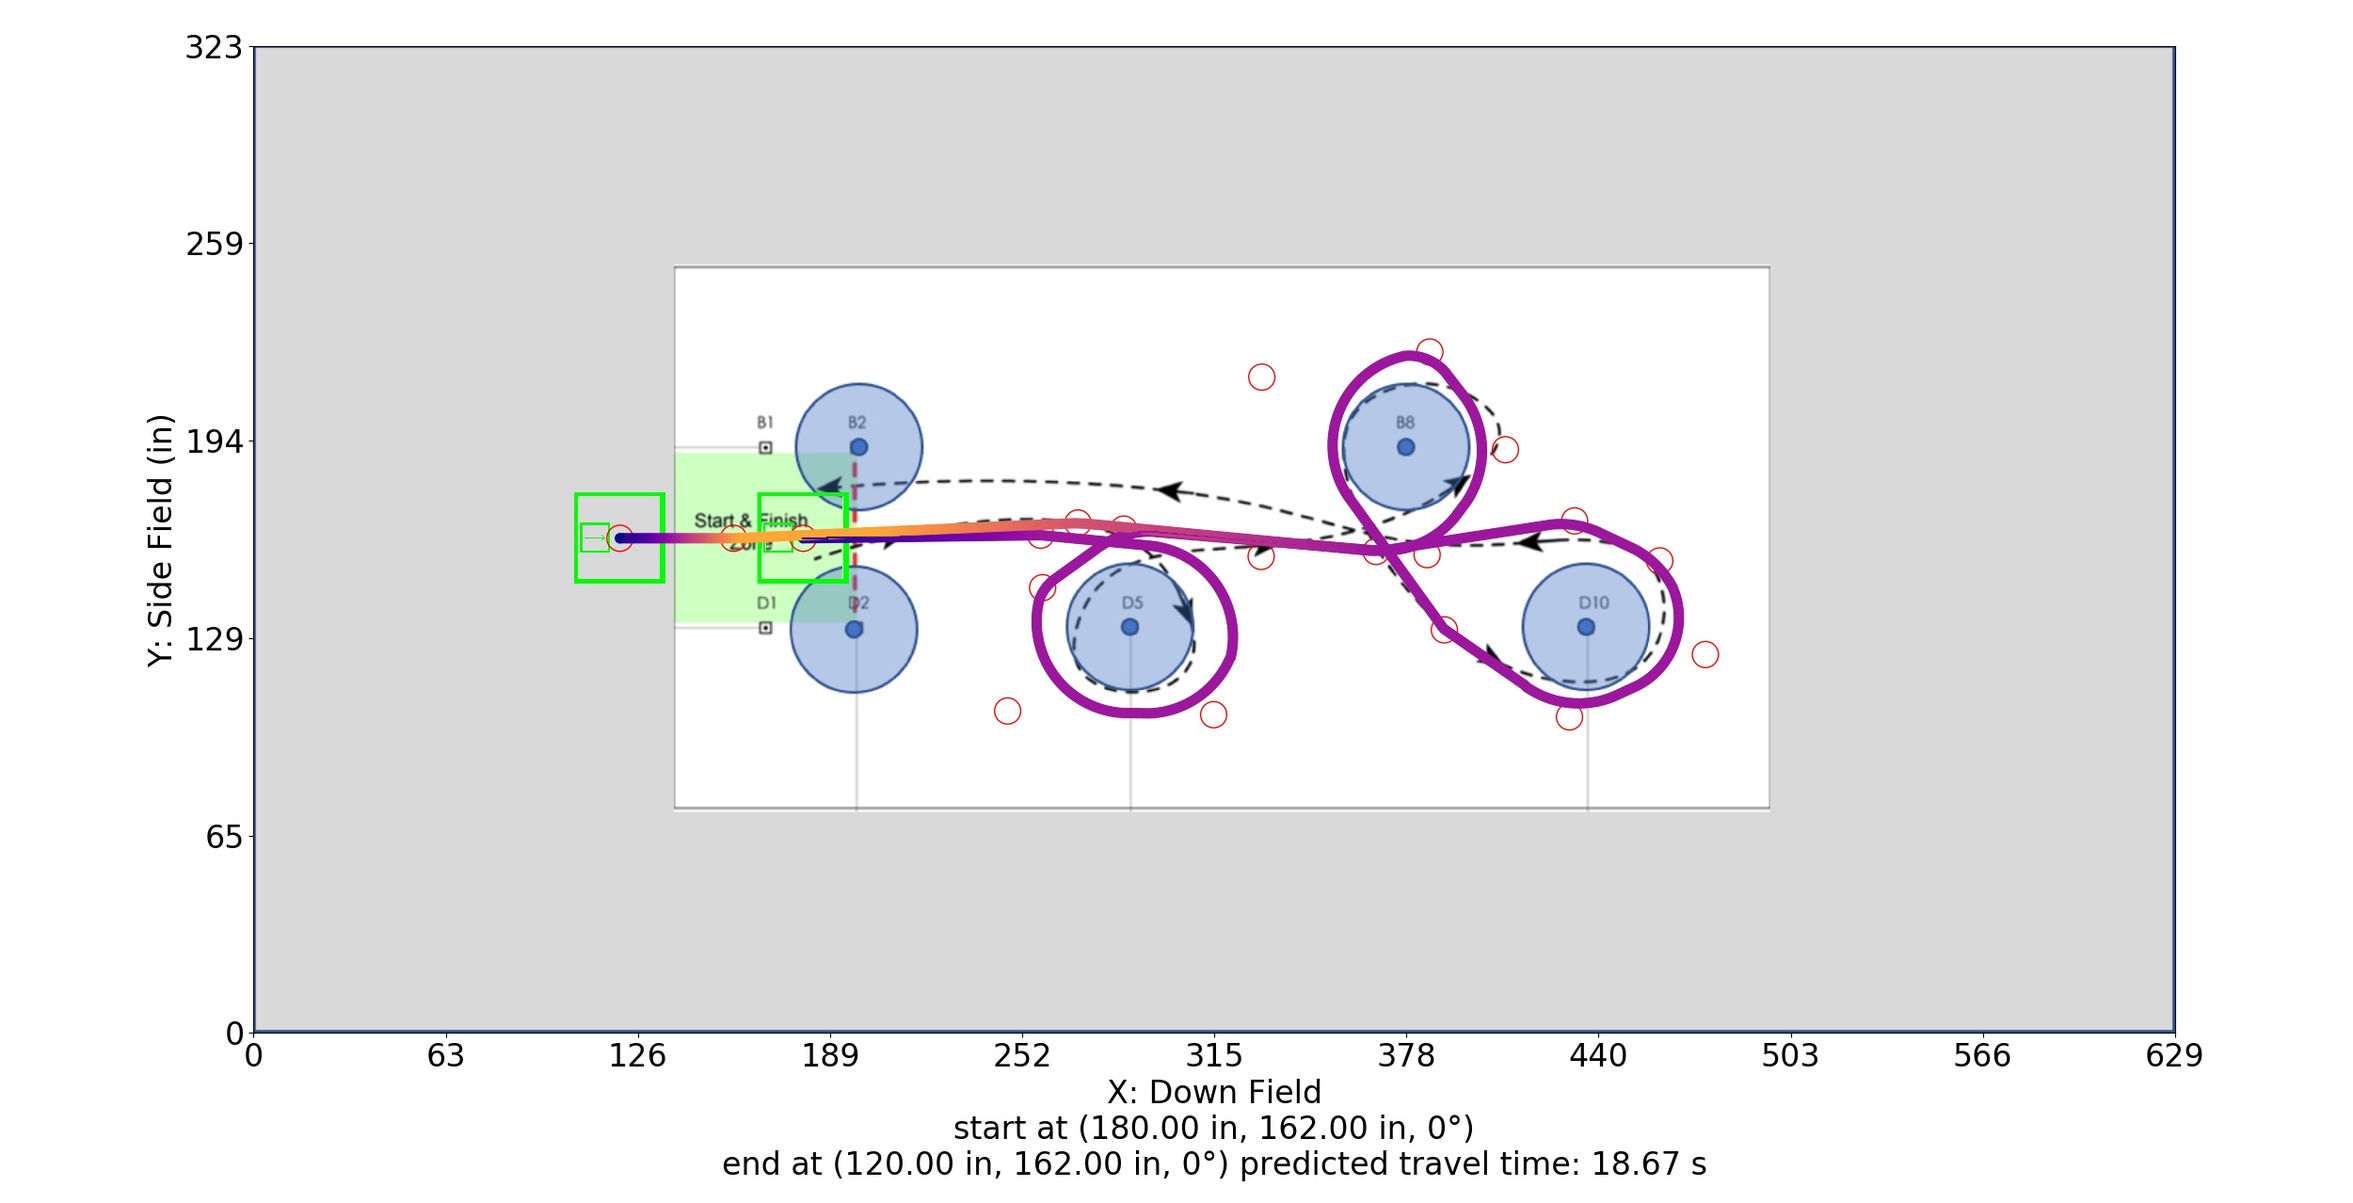
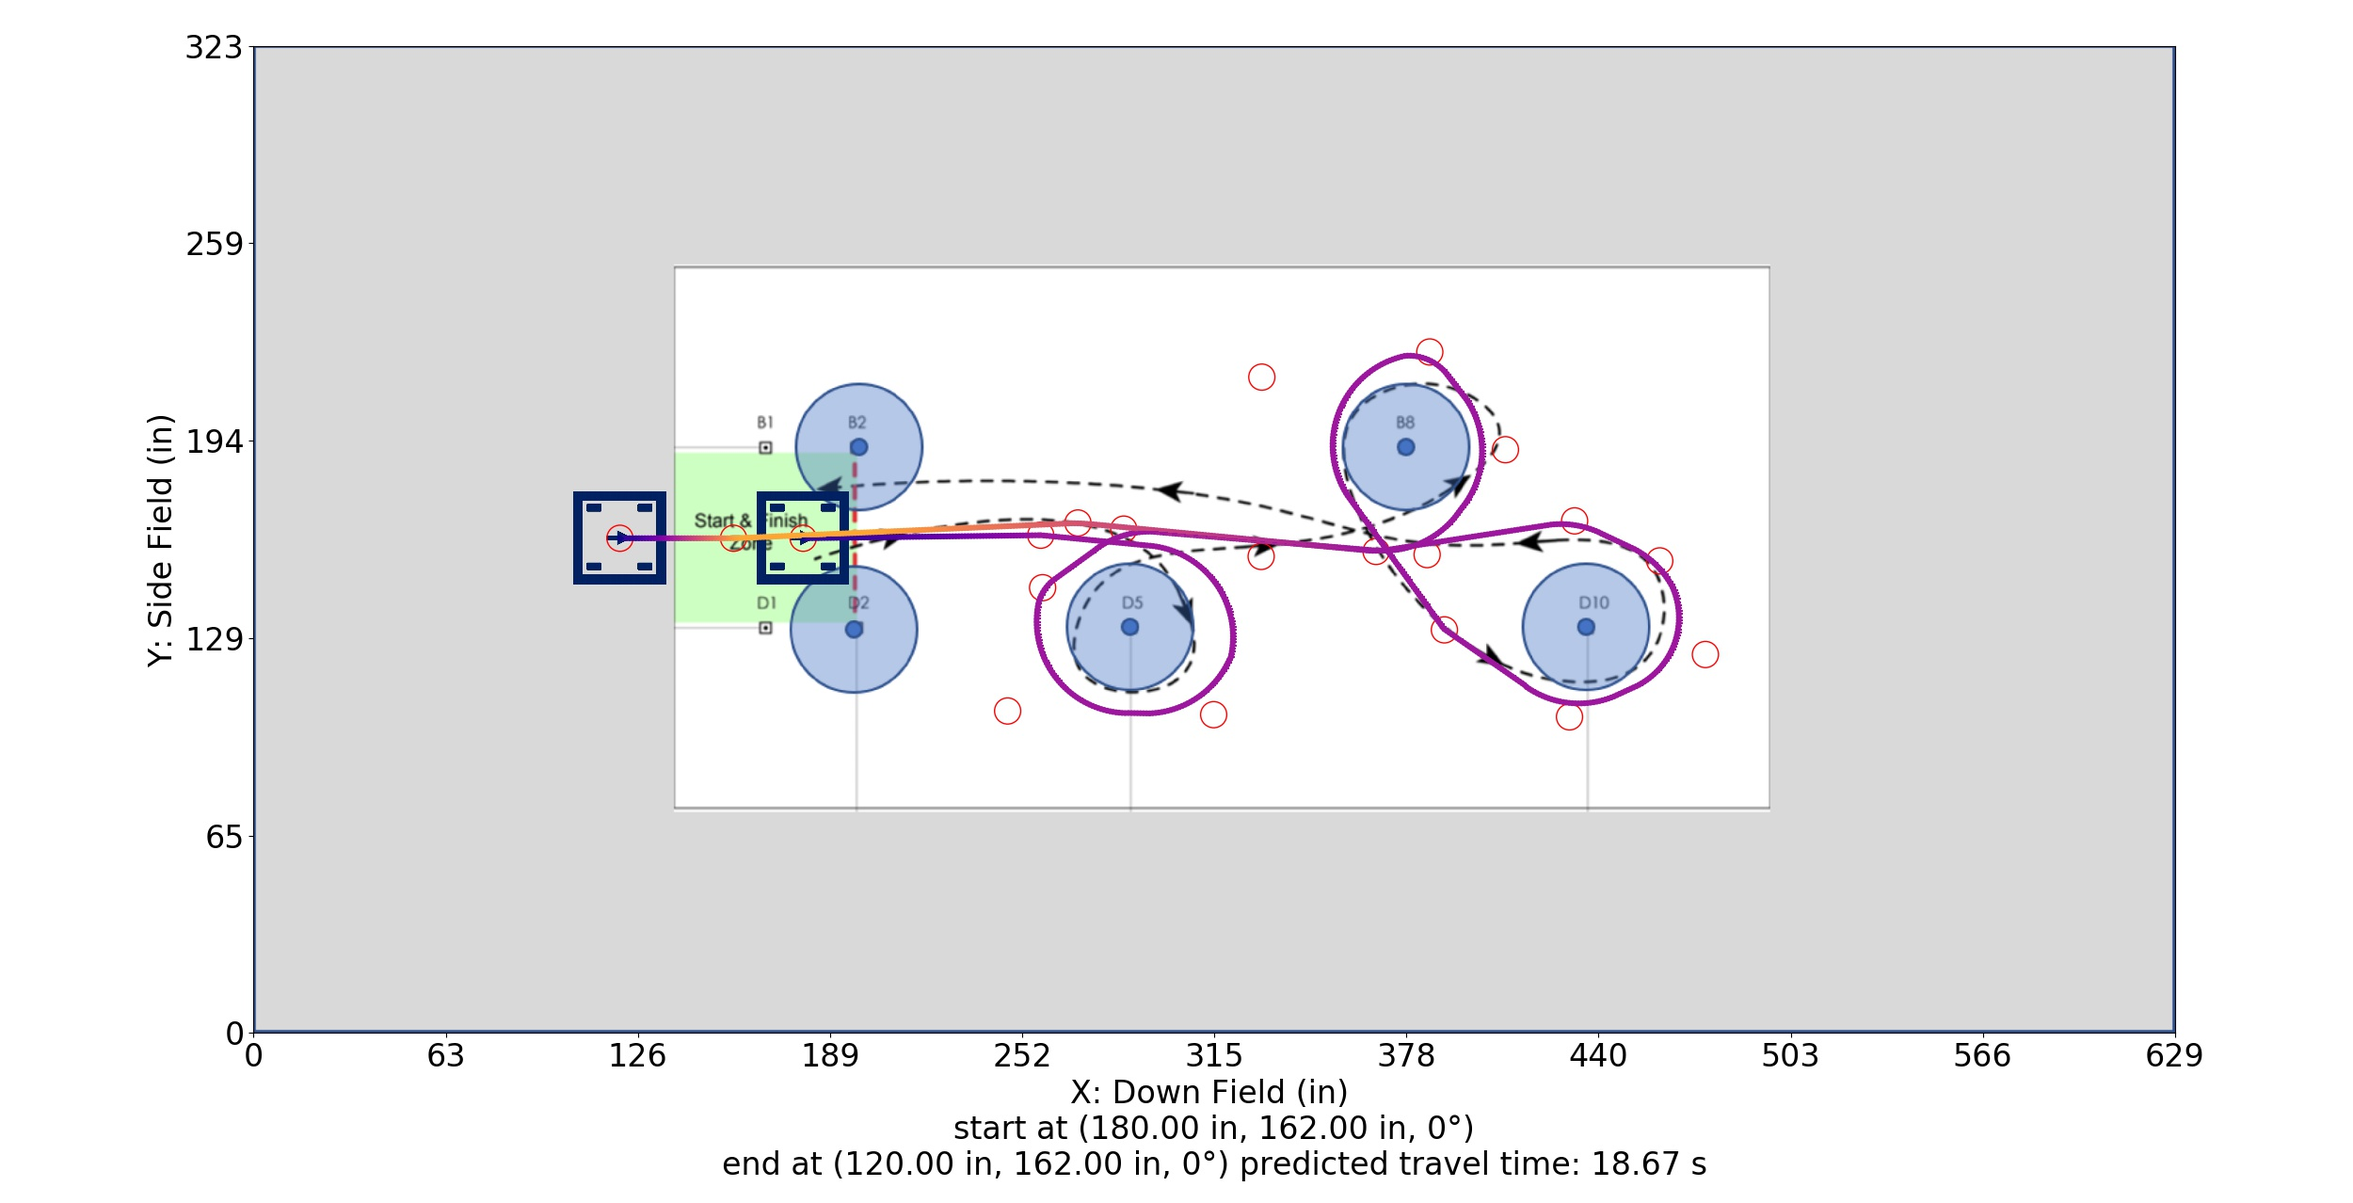
> Overhauls the path saving code. > Adds a seperate button for editing a waypoint. > Fixes a bug in the x-axis label display. > Radio group is fixed custom toolbar buttons.

diff --git a/code/PathPlanning.py b/code/PathPlanning.py
@@ -1,13 +1,13 @@
-# Date: 2021-02-26
+# Date: 2021-02-27
 # Description: path planning algorithms and user interface
 #-----------------------------------------------------------------------------
 
 # Load external modules
 import cv2 # OpenCV
 import matplotlib # all of Matplotlib
-import matplotlib.pyplot as plt # Matplotlib plotting functionality
+from matplotlib import pyplot as plt # Matplotlib plotting functionality
 matplotlib.rcParams['toolbar'] = 'toolmanager' # toolbar functionality
-from matplotlib.backend_tools import ToolToggleBase # toolbar functionality
+from matplotlib.backend_tools import ToolBase,ToolToggleBase # toolbar functionality
 import numpy as np # Numpy toolbox
 import pandas # data handling toolbox
 import sys # access to Windows OS
@@ -356,19 +356,20 @@ def pathSolution(path):
 
 #-----------------------------------------------------------------------------
 
-def popupPtData(path,x_prior,y_prior):
+def popupPtData(path,x_prior,y_prior,flag_newPt):
     """
     Creates a pop-up window that allows a user to create or edit a waypoint
     Args:
         path: robot path 
         x_prior: (pixels) the x coordinate of the user's mouse click
         y_prior: (pixels) the y coordinate of the user's mouse click
+        flag_newPt: True if this is a new point
     Returns:
         path: the updated robot path
     """
     
     # Configure waypoint selection
-    [x_init,y_init,v_init,o_init,R_init,T_init,way_index] = path.configureWayPoint(x_prior,y_prior)
+    [x_init,y_init,v_init,o_init,R_init,T_init,way_index] = path.configureWayPoint(x_prior,y_prior,flag_newPt)
     if(way_index!=-1): way_order = way_index
     else: way_order = path.numWayPoints()
     
@@ -590,15 +591,15 @@ def definePath(path_loaded,file_I,file_robot,buttonPlan):
     I_robot = loadRobot(file_robot,path.scale_pi)
     
     # Display the field image
-    global h_im
-    [h_fig,h_im,ax,_] = gensup.smartRealImageDisplay(I,[path.field_x_real,path.field_y_real],'Field Map',
+    global h_im,h_fig
+    [h_fig,h_im,ax,_] = gensup.smartRealImageDisplay(I,[path.field_x_real,path.field_y_real],path.loaded_filename,
                                                       flag_grid=True,
                                                       origin='bottomleft',x_real='X: Down Field',y_real='Y: Side Field',
                                                       units='in')
     
     # Define global variables
     global flag_toolwaypoint
-    flag_toolwaypoint = True
+    flag_toolwaypoint = 1
     global flag_risingEdge
     flag_risingEdge = False
     global flag_adding 
@@ -612,12 +613,55 @@ def definePath(path_loaded,file_I,file_robot,buttonPlan):
     
     # Watch for window close event
     def actionWindowClose(evt):
+        
+        # Save the path
+        savePath()
+        
+        # Reset the GUI
+        buttonPlan.configure(bg=guiColor_hotgreen,state=tk.NORMAL)
+    
+    # Set up mouse button click callbacks
+    def mouseClick(event):
+        global flag_risingEdge,flag_adding,h_fig
+        sys.stdout.flush()
+        button = 'LEFT'
+        if(flag_toolwaypoint!=0):
+            if(str(event.button).find(button)!=-1):
+                if(flag_risingEdge==False):
+                    flag_risingEdge = True
+                    if(not flag_adding):
+                    
+                        # Block additional popups
+                        flag_adding = True
+                        
+                        # Retrieve information about the selected point
+                        [x_prior,y_prior] = event.xdata, event.ydata 
+                        
+                        # Display popup window
+                        try:
+                            popupPtData(path,x_prior,y_prior,flag_toolwaypoint==1)
+                            generatePath()
+                            h_fig.canvas.set_window_title(path.loaded_filename+'*')
+                            flag_adding = False
+                        except: flag_adding = False # ignore
+                
+    # Set up mouse button unclick callbacks
+    def mouseUnClick(event):
+        global flag_risingEdge
+        sys.stdout.flush()
+        button = 'LEFT'
+        if(flag_toolwaypoint!=0):
+            if(str(event.button).find(button)!=-1):
+                if(flag_risingEdge==True):
+                    flag_risingEdge = False
+                    
+    def savePath():
         global path
         
         if(path.numWayPoints()>1):
         
             # Ask the user if they would like to save the path
-            filename = gensup.popupTextEntry('name the path or leave blank to not save',path.loaded_filename)
+            filename = gensup.popupTextEntry('save path as',path.loaded_filename)
             
             if(filename!=''):
                 
@@ -640,43 +684,10 @@ def definePath(path_loaded,file_I,file_robot,buttonPlan):
                 
                 # Save an image of the path planning figure
                 h_fig.savefig('../robot paths/%s.jpg' %(filename))
-        
-        # Reset the GUI
-        buttonPlan.configure(bg=guiColor_hotgreen,state=tk.NORMAL)
-    
-    # Set up mouse button click callbacks
-    def mouseClick(event):
-        global flag_risingEdge,flag_adding
-        sys.stdout.flush()
-        button = 'LEFT'
-        if(flag_toolwaypoint):
-            if(str(event.button).find(button)!=-1):
-                if(flag_risingEdge==False):
-                    flag_risingEdge = True
-                    if(not flag_adding):
-                    
-                        # Block additional popups
-                        flag_adding = True
-                        
-                        # Retrieve information about the selected point
-                        [x_prior,y_prior] = event.xdata, event.ydata 
-                        
-                        # Display popup window
-                        try:
-                            popupPtData(path,x_prior,y_prior)
-                            generatePath()
-                            flag_adding = False
-                        except: flag_adding = False # ignore
                 
-    # Set up mouse button unclick callbacks
-    def mouseUnClick(event):
-        global flag_risingEdge
-        sys.stdout.flush()
-        button = 'LEFT'
-        if(flag_toolwaypoint):
-            if(str(event.button).find(button)!=-1):
-                if(flag_risingEdge==True):
-                    flag_risingEdge = False
+                # Update the loaded path name
+                path.loaded_filename = filename
+                h_fig.canvas.set_window_title(path.loaded_filename)
                 
     def generatePath():
         global path,h_im,h_ways,h_smooths,hs_ori
@@ -727,7 +738,7 @@ def definePath(path_loaded,file_I,file_robot,buttonPlan):
                 # Display the path metrics
                 details_start = 'start at (%0.2f in, %0.2f in, %0.0f°)' %(path.smooths_x[0],path.smooths_y[0],path.smooths_o[0])
                 details_end = 'end at (%0.2f in, %0.2f in, %0.0f°) predicted travel time: %0.2f s' %(path.smooths_x[-1],path.smooths_y[-1],path.smooths_o[-1],path.total_t)
-                plt.xlabel('X: Down Field\n%s\n%s' %(details_start,details_end))
+                plt.xlabel('X: Down Field (in) \n%s\n%s' %(details_start,details_end))
                 
                 # Display the smooth path
                 ptColors = []
@@ -738,7 +749,7 @@ def definePath(path_loaded,file_I,file_robot,buttonPlan):
                     ptColors.append(np.array([ptColor[0],ptColor[1],ptColor[2]]))
                 h_smooths = ax.scatter(path.scale_pi*np.array(path.smooths_x),
                                        (path.field_y_pixels)*np.ones((len(path.smooths_y)),float) - path.scale_pi*np.array(path.smooths_y),
-                                       color=np.array(ptColors),marker='.',s=200)
+                                       color=np.array(ptColors),marker='.',s=25)
                 
                 # Display the orientation overlays
                 for i in range(0,path.numSmoothPoints(),1):
@@ -749,18 +760,37 @@ def definePath(path_loaded,file_I,file_robot,buttonPlan):
                     yb = ya - (path.step_size*path.scale_pi)*np.sin(oa)
                     hs_ori.append(plt.plot(np.array([xa,xb]),np.array([ya,yb]),color=np.array(ptColors[i])))
     
-    class ToolWaypoint(ToolToggleBase):
+    class ToolSavePath(ToolBase):
+        description = 'Saves the path'
+        default_toggled = False
+        image = dirPvars+'save.png'
+        def trigger(self,*args):
+            savePath()
+    
+    class ToolAddWaypoint(ToolToggleBase):
         description = 'Adds a waypoint'
-        radio_group = 'tool'
+        radio_group = 'default'
         default_toggled = True
-        image = dirPvars+'waypoint.png'
+        image = dirPvars+'addwaypoint.png'
         def enable(self,*args):
             global flag_toolwaypoint
-            flag_toolwaypoint = True # waypoint tool is selected
+            flag_toolwaypoint = 1 # add waypoint tool is selected
         def disable(self,*args):
             global flag_toolwaypoint
-            flag_toolwaypoint = False # waypoint tool is deselected
-    
+            flag_toolwaypoint = 0 # add waypoint tool is deselected
+            
+    class ToolEditWaypoint(ToolToggleBase):
+        description = 'Edits a waypoint'
+        radio_group = 'default'
+        default_toggled = False
+        image = dirPvars+'editwaypoint.png'
+        def enable(self,*args):
+            global flag_toolwaypoint
+            flag_toolwaypoint = 2 # edit waypoint tool is selected
+        def disable(self,*args):
+            global flag_toolwaypoint
+            flag_toolwaypoint = 0 # edit waypoint tool is deselected
+            
     # Configure the tool manager
     tm = h_fig.canvas.manager.toolmanager
     h_fig.canvas.manager.toolmanager.remove_tool('help')
@@ -768,8 +798,12 @@ def definePath(path_loaded,file_I,file_robot,buttonPlan):
     h_fig.canvas.manager.toolmanager.remove_tool('save')
     
     # Add the new tools to the toolbar
-    tm.add_tool('Add Waypoint',ToolWaypoint)
+    tm.add_tool('Save Path',ToolSavePath)
+    h_fig.canvas.manager.toolbar.add_tool(tm.get_tool('Save Path'),'custom')
+    tm.add_tool('Add Waypoint',ToolAddWaypoint)
     h_fig.canvas.manager.toolbar.add_tool(tm.get_tool('Add Waypoint'),'custom')
+    tm.add_tool('Edit Waypoint',ToolEditWaypoint)
+    h_fig.canvas.manager.toolbar.add_tool(tm.get_tool('Edit Waypoint'),'custom')
     
     # Connect the mouse button callbacks
     plt.connect('button_press_event',mouseClick)

diff --git a/code/Main.py b/code/Main.py
@@ -171,7 +171,7 @@ class Path():
         self.field_x_pixels = 1.0 # (pix) length of the field
         self.field_y_pixels = 1.0 # (pix) width of the field
         self.scale_pi = 1.0 # (pix/in)
-        self.loaded_filename = '' # the name of the loaded path
+        self.loaded_filename = 'unamed 1' # the name of the loaded path
         
         # Way points
         self.ways_x = [] # (in) list of way point x positions
@@ -198,21 +198,11 @@ class Path():
         self.field_y_pixels = I.shape[0]
         self.scale_pi = self.field_x_pixels/self.field_x_real
         
-    def configureWayPoint(self,x_prior,y_prior):
+    def configureWayPoint(self,x_prior,y_prior,flag_newPt):
         
         # Convert the candidate points into inches for search
         x_prior = x_prior/self.scale_pi # (in)
         y_prior = (self.field_y_pixels-y_prior)/self.scale_pi # (in)
-        
-        # Check to see if this is a new or a pre-exisiting point
-        thresh_samePt = 5 # [in] if the selected point is closer than this, you will edit a previous point
-        flag_newPt = True
-        i = -1 # needed for first call
-        for i in range(0,len(self.ways_x),1):
-            d = np.sqrt(((self.ways_x[i]-x_prior)**2)+((self.ways_y[i]-y_prior)**2))
-            if(d<thresh_samePt):
-                flag_newPt = False
-                break
         
         if(flag_newPt):
             
@@ -222,23 +212,33 @@ class Path():
             # Default values for a new point
             x_init = np.round(x_prior,2) # (ft)
             y_init = np.round(y_prior,2) # (ft)
-            v_init = 1.0
+            v_init = 0.0
             o_init = 0.0
             R_init = 3*self.step_size
             T_init = False
             
         else:
             
-            # Index for an existing point
-            way_index = i
+            # Find the closest point to edit
+            way_index = -1
+            d_edit = None
+            for i in range(0,len(self.ways_x),1):
+                d = np.sqrt(((self.ways_x[i]-x_prior)**2)+((self.ways_y[i]-y_prior)**2))
+                if(d_edit is not None):
+                    if(d<d_edit): 
+                        d_edit = d
+                        way_index = i
+                else:
+                    d_edit = d
+                    way_index = i
             
-            # Default values for a new point
-            x_init = np.round(self.ways_x[i],2) # (in)
-            y_init = np.round(self.ways_y[i],2) # (in)
-            v_init = (1/12)*self.ways_v[i]
-            o_init = self.ways_o[i]
-            R_init = self.ways_R[i]
-            T_init = self.ways_T[i]
+            # Default values for an existing point
+            x_init = np.round(self.ways_x[way_index],2) # (in)
+            y_init = np.round(self.ways_y[way_index],2) # (in)
+            v_init = (1/12)*self.ways_v[way_index]
+            o_init = self.ways_o[way_index]
+            R_init = self.ways_R[way_index]
+            T_init = self.ways_T[way_index]
         
         return x_init, y_init, v_init, o_init, R_init, T_init, way_index
     
@@ -521,8 +521,8 @@ textFields = []
 for i in range(0,len(fieldNames),1):
     [title,field] = gensup.easyTextField(guiwindow,windW,fieldNames[i],str(defaults[i]))
     textFields.append({'title': title, 'field': field})
-buttonApply = tk.Button(guiwindow,text='Apply',fg=guiColor_black,bg=guiColor_hotpink,font=(guiFontType_normal,guiFontSize_large),height=1,width=int(0.02*windW),command=actionApplySettings)
-buttonPlan = tk.Button(guiwindow,text='Plan',fg=guiColor_black,bg=guiColor_hotgreen,font=(guiFontType_normal,guiFontSize_large),height=1,width=int(0.02*windW),command=actionLoadField)
+buttonApply = tk.Button(guiwindow,text='Apply',fg=guiColor_black,bg=guiColor_hotpink,font=(guiFontType_normal,guiFontSize_large),height=1,width=int(0.03*windW),command=actionApplySettings)
+buttonPlan = tk.Button(guiwindow,text='Plan',fg=guiColor_black,bg=guiColor_hotgreen,font=(guiFontType_normal,guiFontSize_large),height=1,width=int(0.03*windW),command=actionLoadField)
 
 # Place all elements
 for i in range(0,len(textFields),1):

diff --git a/code/GeneralSupportFunctions.py b/code/GeneralSupportFunctions.py
@@ -1,4 +1,4 @@
-# Date: 2020-06-11
+# Date: 2021-02-27
 # Description: general support functions
 #-----------------------------------------------------------------------------
 
@@ -25,6 +25,7 @@ try:
     guiColor_darkgreen = h_npz_settings['guiColor_darkgreen']
     guiColor_cherryred = h_npz_settings['guiColor_cherryred']
     guiColor_hotpink = h_npz_settings['guiColor_hotpink']
+    guiColor_hotgreen = h_npz_settings['guiColor_hotgreen']
     guiFontSize_large = h_npz_settings['guiFontSize_large']
     guiFontSize_small = h_npz_settings['guiFontSize_small']
     guiFontType_normal = h_npz_settings['guiFontType_normal']
@@ -336,7 +337,7 @@ def popupTextEntry(titletext,default):
     entrywindow = tk.Toplevel()
     entrywindow.title(str(softwareName))
     windW = 400
-    windH = 125
+    windH = 175
     entrywindow.geometry(str(windW)+'x'+str(windH))
     entrywindow.configure(background=guiColor_offwhite)
     entrywindow.resizable(width=False, height=False)
@@ -355,12 +356,14 @@ def popupTextEntry(titletext,default):
     input0_var.set('')
     entry0 = tk.Entry(entrywindow,textvariable=input0_var,fg=guiColor_offwhite,bg=guiColor_white,font=(guiFontType_normal,guiFontSize_large),width=int(0.07*windW))
     entry0.insert(0,default)
-    buttonApply = tk.Button(entrywindow,text='Apply',fg=guiColor_black,bg=guiColor_hotpink,font=(guiFontType_normal,guiFontSize_large),height=1,width=int(0.02*windW),command=actionApply)
+    buttonApply = tk.Button(entrywindow,text='Apply',fg=guiColor_black,bg=guiColor_hotgreen,font=(guiFontType_normal,guiFontSize_large),height=1,width=int(0.02*windW),command=actionApply)
+    buttonCancel = tk.Button(entrywindow,text='Cancel',fg=guiColor_black,bg=guiColor_hotpink,font=(guiFontType_normal,guiFontSize_large),height=1,width=int(0.02*windW),command=actionClose)
     
     # Configure and place the gui elements
     title.pack(fill=tk.X)
     entry0.pack(pady=5)
     buttonApply.pack(pady=5)
+    buttonCancel.pack(pady=5)
     entrywindow.bind('<Return>',actionApply)
     entry0.lift() 
     entrywindow.focus_set()

diff --git a/code/VersioningControl.py b/code/VersioningControl.py
@@ -131,7 +131,10 @@ Release Notes
 -------------------------------------------------------------------------------------
 
 v***
-
+> Overhauls the path saving code.
+> Adds a seperate button for editing a waypoint.
+> Fixes a bug in the x-axis label display.
+> Radio group is fixed custom toolbar buttons.
 
 v2.1.0
 > Fixes a minor installation bug.
